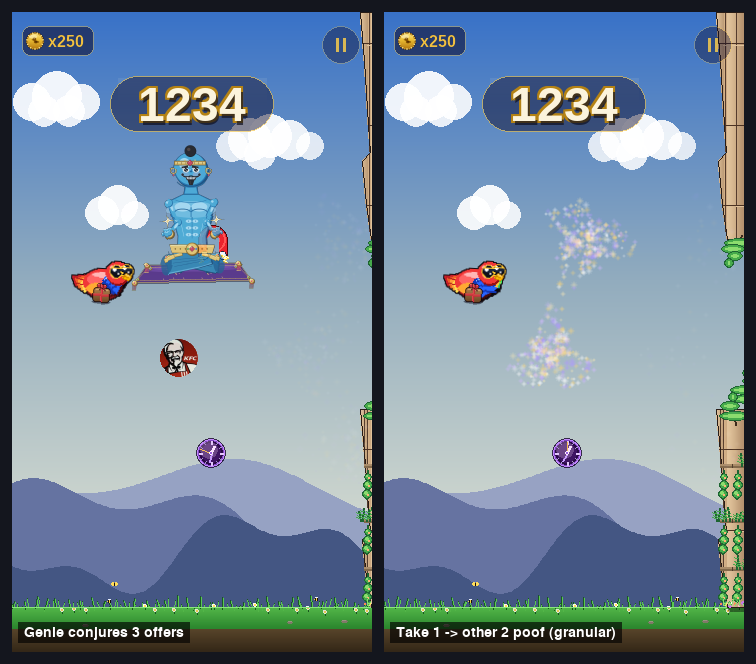
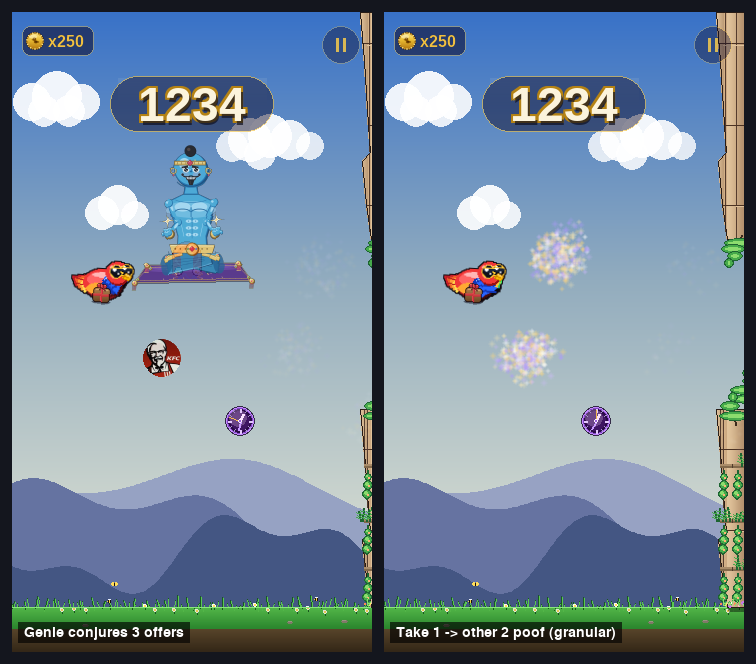
genie: make the poof a plain puffy cloud that covers the source
_spawn_grainy_poof now builds the cloud from a solid central lobe plus a
few overlapping offset lobes (cumulus-like) densely filled with soft
motes, drifting gently — a cohesive, lumpy cloud that simply covers the
genie rather than tracing his silhouette or forming a clean circle. Same
cloud scales down for the offers. Regenerates demos.

https://claude.ai/code/session_01Ms85cBEeRiAtxZBCNh5vN5

diff --git a/game/world.py b/game/world.py
@@ -2195,44 +2195,38 @@ class World:
             self.particles.append(CloudPuff(x, y, vx, vy, life, r0, r1, color))
 
     def _spawn_grainy_poof(self, x, y, palette=None, n=None, rx=34, ry=34):
-        """Magic-dust poof (design #5 'genie gold+violet'). Bursts dust
-        OUT of the source with an irregular, lobed, swirling outline —
-        denser near the body, trailing into wisps and tendrils — so it
-        reads as a natural, magical puff coming OUT of the genie rather
-        than a smooth round blob. (rx, ry) set the reach, so the same
-        organic shape scales: a big burst around the genie, a small one
-        on each offer powerup."""
+        """Magic-dust poof (design #5 'genie gold+violet'). A plain,
+        puffy CLOUD that simply COVERS the source — built from a few
+        overlapping soft lobes (cumulus-like) densely packed with motes,
+        so it's cohesive and lumpy-natural rather than a clean circle or
+        a shape tracing the genie's silhouette. (rx, ry) just set how big
+        an area the cloud covers, so the same cloud scales down for the
+        offer powerups. Motes drift gently (a settling cloud)."""
         if palette is None:
             palette = [(255, 255, 255), (255, 235, 180), (255, 215, 120),
                        (210, 185, 255), (175, 150, 255)]
         if n is None:
             n = max(140, int(rx * ry * 0.28))
-        # Per-burst lobe phases so every poof has its own ragged outline.
-        p1 = random.uniform(0, math.tau)
-        p2 = random.uniform(0, math.tau)
+        # A solid central body + a handful of offset lobes whose union is
+        # a lumpy cloud covering the (rx, ry) area.
+        base = min(rx, ry)
+        lobes = [(0.0, 0.0, 0.90 * base)]
+        for _ in range(random.randint(5, 7)):
+            la = random.uniform(0, math.tau)
+            lr = random.uniform(0.0, 0.60)
+            lobes.append((math.cos(la) * rx * lr,
+                          math.sin(la) * ry * lr,
+                          random.uniform(0.50, 0.80) * base))
         for _ in range(n):
-            a = random.uniform(0, math.tau)
-            # Ragged per-angle reach (a few lobes + ripple + jitter) so the
-            # cloud edge is organic, never a clean circle.
-            reach = (0.85
-                     + 0.42 * math.sin(3 * a + p1)
-                     + 0.20 * math.sin(7 * a + p2)
-                     + random.uniform(-0.12, 0.12))
-            reach = max(0.18, reach)
-            # Concentrate motes near the body; the tail of the
-            # distribution streams out as wisps.
-            rr = random.random() ** 0.62
-            dist = rr * reach
-            px = x + math.cos(a) * rx * dist
-            py = y + math.sin(a) * ry * dist
-            # Emanate outward from the source (faster the further out, so
-            # it keeps blooming OUT of the genie) + a magical swirl + rise.
-            out = random.uniform(16, 70) * (0.35 + dist)
-            swirl = random.uniform(-44, 44)
-            vx = math.cos(a) * out - math.sin(a) * swirl
-            vy = math.sin(a) * out + math.cos(a) * swirl - random.uniform(8, 26)
-            life = random.uniform(0.45, 1.0)
-            size = random.choice((2, 3, 3, 4))
+            lox, loy, lrad = random.choice(lobes)
+            a  = random.uniform(0, math.tau)
+            rr = math.sqrt(random.random())          # fill the lobe disc
+            px = x + lox + math.cos(a) * lrad * rr
+            py = y + loy + math.sin(a) * lrad * rr
+            vx = random.uniform(-14, 14)             # gentle settle / drift
+            vy = random.uniform(-20, 6)
+            life = random.uniform(0.50, 1.00)
+            size = random.choice((3, 3, 4, 4))
             self.particles.append(
                 PoofGrain(px, py, vx, vy, life, size, random.choice(palette)))
 

diff --git a/tools/render_genie_phases.py b/tools/render_genie_phases.py
@@ -53,25 +53,24 @@ def _patch_palette(w, palette, _n):
     size (rx/ry are passed by the genie / offer callers)."""
     def _poof(self, x, y, palette_arg=None, n=None, rx=34, ry=34):
         cnt = n if n is not None else max(140, int(rx * ry * 0.28))
-        p1 = random.uniform(0, math.tau)
-        p2 = random.uniform(0, math.tau)
+        base = min(rx, ry)
+        lobes = [(0.0, 0.0, 0.90 * base)]
+        for _ in range(random.randint(5, 7)):
+            la = random.uniform(0, math.tau)
+            lr = random.uniform(0.0, 0.60)
+            lobes.append((math.cos(la) * rx * lr,
+                          math.sin(la) * ry * lr,
+                          random.uniform(0.50, 0.80) * base))
         for _ in range(cnt):
-            a = random.uniform(0, math.tau)
-            reach = (0.85
-                     + 0.42 * math.sin(3 * a + p1)
-                     + 0.20 * math.sin(7 * a + p2)
-                     + random.uniform(-0.12, 0.12))
-            reach = max(0.18, reach)
-            rr = random.random() ** 0.62
-            dist = rr * reach
-            px = x + math.cos(a) * rx * dist
-            py = y + math.sin(a) * ry * dist
-            out = random.uniform(16, 70) * (0.35 + dist)
-            swirl = random.uniform(-44, 44)
-            vx = math.cos(a) * out - math.sin(a) * swirl
-            vy = math.sin(a) * out + math.cos(a) * swirl - random.uniform(8, 26)
-            life = random.uniform(0.45, 1.0)
-            size = random.choice((2, 3, 3, 4))
+            lox, loy, lrad = random.choice(lobes)
+            a  = random.uniform(0, math.tau)
+            rr = math.sqrt(random.random())
+            px = x + lox + math.cos(a) * lrad * rr
+            py = y + loy + math.sin(a) * lrad * rr
+            vx = random.uniform(-14, 14)
+            vy = random.uniform(-20, 6)
+            life = random.uniform(0.50, 1.00)
+            size = random.choice((3, 3, 4, 4))
             self.particles.append(
                 PoofGrain(px, py, vx, vy, life, size, random.choice(palette)))
     w._spawn_grainy_poof = types.MethodType(_poof, w)
